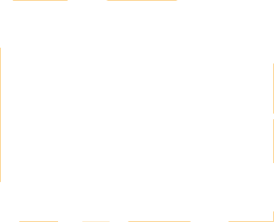
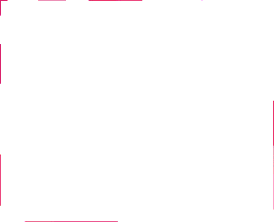
fix: subtle chevron without background
🤖 Generated with Codebuff

diff --git a/src/index.css b/src/index.css
@@ -1475,11 +1475,7 @@ ul { list-style: none; }
   display: flex;
   align-items: center;
   justify-content: center;
-  width: 24px;
-  height: 24px;
-  background: var(--ink);
-  color: #fff;
-  border-radius: 50%;
+  color: var(--ink-subtle);
   transition: transform 0.3s ease;
 }
 .faq5-item.open .faq5-chevron {
